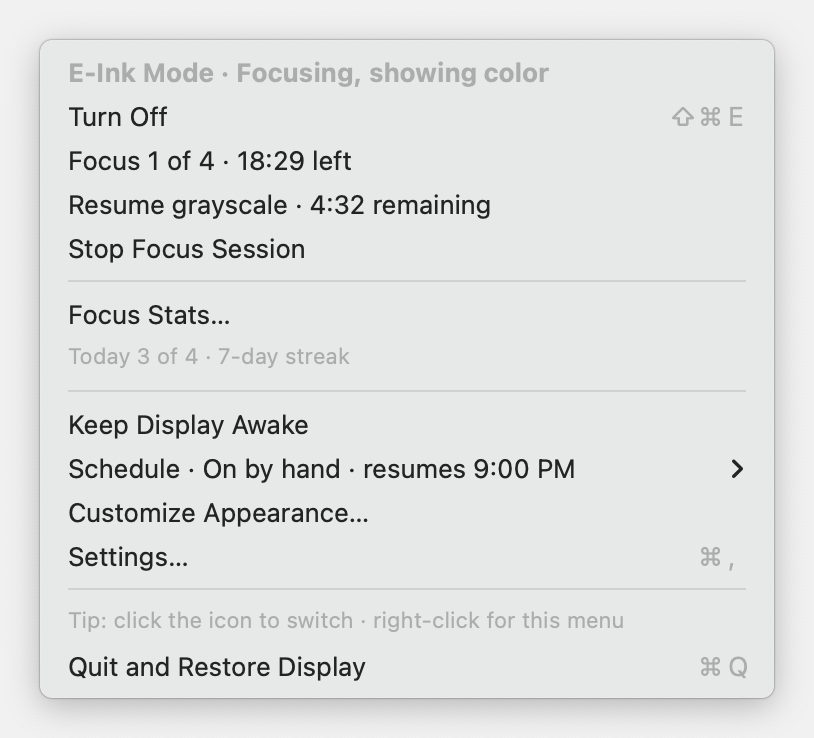
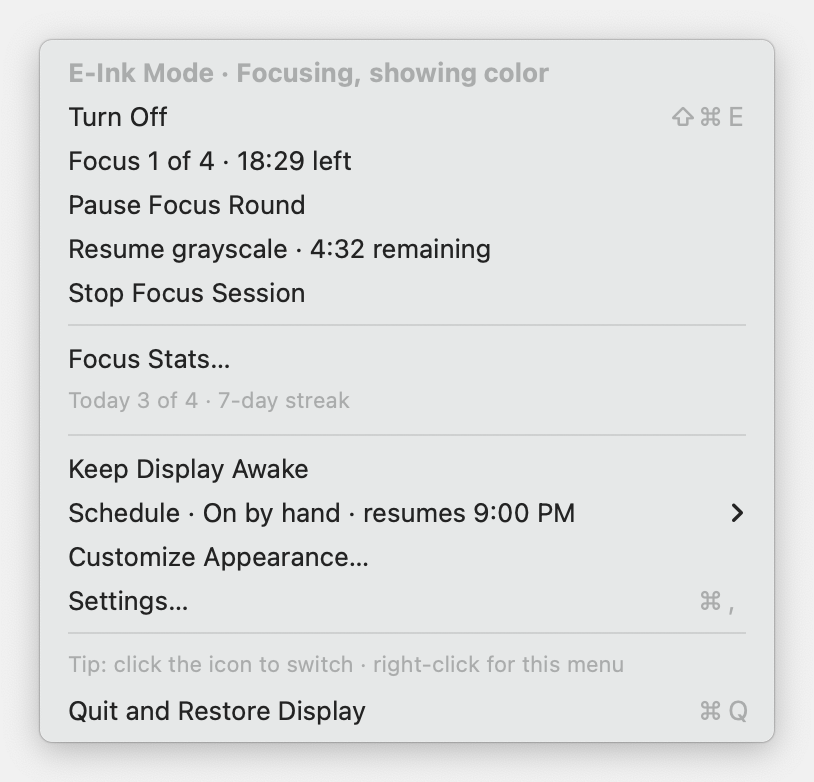
Refresh beta.4 release documentation and screenshots

diff --git a/docs/QA.md b/docs/QA.md
@@ -2,37 +2,43 @@
 
 ## Automated
 
-`./scripts/test.sh` runs core tests and process-level CLI tests against an isolated simulated system (`EINK_SIMULATED=1`). Coverage:
+`./scripts/test.sh` runs core tests and process-level CLI tests against an isolated simulated system (`EINK_SIMULATED=1`). Beta.4 passed 97 Swift tests, CLI integration tests, and release guard checks. Coverage:
 
 - **Restoration:** exact per-display capture and restore, pre-existing accessibility settings, idempotent activation, partial failures and rollback, retry after restart, corrupt journal and config, restore with a damaged config, and never clearing settings the app didn't set.
 - **Temporary color:** lifts grayscale only, leaves the saved profile untouched, cancels early, expires on tick, catches up after sleep, clears when turned off, honors expiry across a crash and resume, and edits during color.
 - **First-run preview:** the one-off profile is never saved and restores exactly.
 - **Defaults:** a fresh install changes grayscale only.
 - **Schedule:** boundaries, DST skipped and repeated hours, catch-up, manual overrides across restarts, quit pausing versus logout resuming, and plain-language status (*tonight*, *this morning*, *tomorrow*, manual override).
-- **Focus sessions:** grayscale focus and color breaks, the rest of the profile kept, round completion and ownership of the mode, catch-up across several phases after sleep, stopping early with credited minutes, turning off mid-round without stopping the timer, timer-only rounds with no display session, skipping breaks, color peeks mid-focus that keep the timer running (and are refused on breaks), a daily goal that defaults to 4 and can be changed, the schedule deferring to a round, settings edits not disrupting a round, surviving a restart, validation, and old config files without focus settings.
+- **Focus sessions:** optional grayscale focus and color breaks, the rest of the profile kept, round completion and ownership of the mode, catch-up across several phases after sleep, stopping early with credited minutes, turning off mid-round without stopping the timer, timer-only rounds with no display session, skipping breaks, color peeks that keep the timer running (refused during automatically controlled color breaks), a daily goal that defaults to 4 and can be changed, the schedule deferring to a round, settings edits not disrupting a round, surviving a restart, validation, and old config files without focus settings.
 - **Stats:** streaks from today or yesterday, gaps, best streak, week labels, retained totals, best day, saved daily goals, unknown legacy goals excluded from goal attainment, retention pruning, and each motivational message.
 - **Keep display awake:** the power assertion is registered with macOS while held and gone once released; repeating a hold or a release is a no-op.
 - **Updates:** semantic version and pre-release ordering, release feed selection (drafts, missing archives, invalid tags), and bundle swap with rollback when the replacement is missing.
 - **CLI:** settings, validation, concurrency (48 mode commands and concurrent edits), temporary color, the evening preset, `version`, and recovery.
 
-`./scripts/build.sh` builds a universal (arm64 + x86_64) local app, verifies its signature, and writes the zip, checksum, and `install.sh`. The local ad hoc build is not installable by the trusted installer. A distribution build requires Developer ID signing, notarization, stapling, and a pinned Team ID. With a signed distribution archive, test the installer offline without touching a running copy:
+`./scripts/build.sh` builds a universal (arm64 + x86_64) local app, verifies its signature, and writes the zip, checksum, and `install.sh`. An ordinary local ad hoc build is not installable by the trusted installer. Signed distribution requires Developer ID signing, notarization, stapling, and a pinned Team ID. The explicit `EINK_UNSIGNED_BETA=1` build instead generates an installer pinned to that beta's exact checksum and version. Test either distribution archive offline without touching a running copy:
 
 ```sh
-EINK_NO_LAUNCH=1 EINK_INSTALL_DIR=/tmp/apps LC_ALL=C bash dist/install.sh dist/E-Ink-Mode-*.zip
+eink_qa_dir="$(mktemp -d)"
+eink_version="$(tr -d '[:space:]' < VERSION)"
+EINK_NO_LAUNCH=1 EINK_INSTALL_DIR="$eink_qa_dir" LC_ALL=C bash dist/install.sh "dist/E-Ink-Mode-$eink_version.zip"
 ```
 
 `EINK_SIMULATED=1 EINK_HOME=/tmp/qa ".../EinkBar" --qa-snapshots /tmp/shots` renders the welcome, settings, and menu screenshots for visual review.
+
+For an unsigned beta, also confirm that an altered ZIP is rejected before installation. Beta.4's actual archive passed isolated installation, checksum, signature, version, and universal-architecture verification.
 
 ## On a real Mac (before each release)
 
 Grayscale must be checked **with your eyes**. API readback doesn't prove pixels changed. Record your macOS version and displays.
 
 ### Install and updates
+Beta.4 is unsigned and unnotarized: browser downloads may require **Open Anyway**, and updates install manually through the ZIP or generated installer. Check update availability and the unsigned-beta installer separately. Gatekeeper-clean opening and in-app installation in steps 1, 2, and 5 are acceptance checks for a future signed release.
+
 1. Fresh account or clean Mac: download the release ZIP in a browser, unzip it, and open the app. It opens without **Open Anyway** or quarantine removal. Accept **Move to Applications**. The app relaunches from Applications.
 2. On the same clean Mac, run the one-line installer. The signed, notarized app lands in Applications and opens. Try an archive signed by a different Team ID: the installer rejects it without replacing the installed app.
 3. Open the app again while it's running. No second icon appears; a hint points at the existing icon.
 4. Run an older build from another folder while the new one is running. The version-choice alert names both versions. **Use Version …** quits the other copy and restores the display.
-5. Publish a signed, notarized test release with a higher version. **Check Now** finds it, the menu shows *Update Available*, and **Install and Relaunch** restores, swaps, reopens, and turns back on if it was on. **Settings → Version** shows the new number. A wrong-publisher or unnotarized archive is refused before the running copy exits or the bundle is replaced.
+5. Publish a signed, notarized test release with a higher version. **Check Now** finds it, the menu shows *Update Available*, and **Install and Relaunch** restores, swaps, reopens, and turns back on if it was on. **Settings → General → Version** shows the new number. A wrong-publisher or unnotarized archive is refused before the running copy exits or the bundle is replaced.
 
 ### First run
 6. The welcome window explains what will change. The preview runs 10 s, shows grayscale only, and returns to color. Closing the window mid-preview also returns to color.
@@ -45,6 +51,7 @@ Grayscale must be checked **with your eyes**. API readback doesn't prove pixels 
 10a. Hold-to-peek: enable **Hold to show color** (default **⌃⌥⌘C**), press and hold the combination, and confirm color appears while held. Release it and confirm the current focus phase, timed peek, or schedule state is restored. Test a lost key-up, sleep/lock, app deactivation, and a conflicting shortcut; a missed release must expire within the short lease and never leave color stuck.
 10b. Select **Fn / 🌐 Globe** and repeat the hold/release check from another app. Check that enabling or selecting Fn while already holding it waits for release and a fresh press. Switch back to a combination and confirm Fn no longer peeks. The Mac's configured Globe action remains unchanged; test with that action set to **Do Nothing** if it interferes.
 11. The shortcut switches from other apps. Choose each preset, then **None**. A conflicting shortcut shows the *already taken* message.
+11d. General settings: Behavior, Keyboard shortcuts, and Updates and help fit together with tips collapsed. Expand **Tips and details**, check scrolling on a small screen, and confirm shortcut conflict and Globe warnings remain visible. With **Appearance → Grayscale** on, clicking applies grayscale; with it off, the mode toggles without changing color. The separate focus grayscale preference does not disable ordinary click-to-grayscale.
 
 ### Keep display awake
 11a. Set **System Settings → Lock Screen → Turn display off** to 1 minute. Choose **Keep Display Awake**: `pmset -g assertions` lists *PreventUserIdleDisplaySleep* named for E-Ink Mode, and the display stays on past a minute of no input. The menu shows a checkmark and the line *Your display stays on until you switch this off*.
@@ -57,15 +64,15 @@ Grayscale must be checked **with your eyes**. API readback doesn't prove pixels 
 14. Sleep across a boundary and wake: it catches up. Log out and back in during the evening period (with **Open at login**): it's on again.
 
 ### Focus sessions
-15a. Settings → Focus to 5/1/2 and enable **Use grayscale during focus**. Start Focus: the menu bar shows a timer and countdown and the display turns grayscale. At 5:00 a sound plays, color returns, and the menu shows *Break · … then focus 2 of 2*. After the break, grayscale returns. After session 2, the display is restored and the *Round complete* hint shows today's count.
+15a. Settings → Focus to 5/1/2 and enable **Use grayscale during focus**. Start Focus: the menu bar shows a shaded icon and countdown and the display turns grayscale. At 5:00 a sound plays, color returns, and the menu shows *Break · … then focus 2 of 2*. After the break, grayscale returns. After session 2, the display is restored and the *Round complete* hint shows today's count.
 15j. Leave **Use grayscale during focus** off (the default). Start Focus with E-Ink Mode off: the countdown runs with an unshaded icon and no display change. Test pause/resume, skipping a break, and completion history. Start another round, turn E-Ink Mode on and off using the icon/shortcut, and change grayscale in Appearance: the same timer keeps running. During an opted-in grayscale round, turning off or changing grayscale releases automatic display switching through later phase boundaries.
-15b. **Skip Break** starts the next session immediately. **Stop Focus Session** mid-focus restores the display, and Focus Stats credits the minutes.
+15b. **Skip Break** starts the next session immediately. **Stop Focus Session** mid-focus restores a display owned by an opted-in grayscale round; a timer-only round leaves the display alone. Focus Stats credits active minutes in both cases.
 15c. Start a round while E-Ink Mode is already on: afterwards it stays on in grayscale.
 15d. Sleep mid-focus past the break and wake: the round catches up to the right phase.
-15f. Mid-focus **Color for 5 Minutes**: color appears, the focus countdown keeps running, and grayscale returns after the peek or on **Resume grayscale**. The item is hidden during breaks.
+15f. During an opted-in grayscale round, **Color for 5 Minutes** shows color while the focus countdown keeps running; grayscale returns after the peek or on **Resume grayscale**. The item is hidden during automatically controlled color breaks. A timer-only round follows the ordinary mode's temporary-color controls, including during breaks.
 15i. Pause mid-focus: the menu and Focus Stats show **Paused**, the remaining time stays fixed, and grayscale remains on. Resume after several minutes: the same round continues and the paused gap earns no minutes. Pause during a break: color stays on and the break clock freezes. Start a color peek before pausing focus and let it expire: grayscale returns, with the round still paused. Cross a schedule boundary while paused: it waits for the round to end. Stop while paused: only active focus minutes count. Quit while paused: the original display returns. Force-quit and relaunch: choose **Continue Session** and check that the round is still paused until you explicitly resume it.
 15g. Change the daily goal with the Focus Stats stepper: today's progress, message, and chart marker update. Earlier days keep their saved goal markers and goal-met results; legacy days with unknown goals show no marker and are excluded from the goal-met count.
-15h. Icon parity: the dot is ○ when off, ● when on or focusing, and ◐ during color peeks and focus breaks. **Wildcat mode** follows the same rule: outlined, filled, half-shaded. Check both sets in light and dark menu bars; the focus countdown shows beside either. The warning icon replaces both when something needs attention.
+15h. Icon parity: the dot is ○ in color (including timer-only focus with mode off), ● while grayscale is applied, and ◐ during color peeks and automatically controlled color breaks. **Wildcat mode** follows the same rule: outlined, filled, half-shaded. Check both sets in light and dark menu bars; the focus countdown shows beside either. The warning icon replaces both when something needs attention.
 15e. Focus Stats updates after each completed session; the 7-day chart and streak look right; hovering a bar shows its values.
 
 ### Restoration

diff --git a/README.md b/README.md
@@ -6,9 +6,11 @@
 
 For macOS 13 Ventura or newer (Apple silicon and Intel) or Windows 10/11 x64 · **Beta**
 
-**New: Windows beta, 2026-09-24** — see [Windows (beta)](#windows-beta) below.
+**Latest Mac release: [0.10.0-beta.4](https://github.com/marcveihl/eink-mode/releases/tag/v0.10.0-beta.4)** — focus without grayscale, independent Pomodoro timers, and compact General settings.
 
-[Download](https://github.com/marcveihl/eink-mode/releases/latest) · [User guide](docs/USER-GUIDE.md) · [Changelog](CHANGELOG.md) · [Roadmap](docs/ROADMAP.md)
+**Windows beta:** see [Windows (beta)](#windows-beta) below for its separate release and installer.
+
+[Download for Mac](https://github.com/marcveihl/eink-mode/releases/download/v0.10.0-beta.4/E-Ink-Mode-0.10.0-beta.4.zip) · [Release notes](https://github.com/marcveihl/eink-mode/releases/tag/v0.10.0-beta.4) · [User guide](docs/USER-GUIDE.md) · [Changelog](CHANGELOG.md) · [Roadmap](docs/ROADMAP.md)
 
 <p align="center"><img src="docs/img/menu-on.png" width="375" alt="E-Ink Mode menu with mode toggle, temporary color, focus sessions, keep display awake, and schedule"></p>
 
@@ -26,22 +28,22 @@ Need to check a photo, a chart, or a color-coded calendar? **Color for 5 Minutes
 
 ### Focus sessions for studying
 
-**Start Focus** runs a round of Pomodoro-style sessions: 25 minutes of focus, then a 5-minute break, four times over. By default, the timers leave your display alone. Enable **Settings → Focus → Use grayscale during focus** for automatic grayscale focus and color breaks. A soft sound marks each phase change, and a countdown sits next to the menu bar icon. You can pause and resume, skip a break, or stop early (minutes you already focused still count). Changing grayscale or turning E-Ink Mode off keeps the timer running and releases automatic display switching for that round.
+**Start Focus** runs a Pomodoro-style round: four 25-minute focus sessions separated by 5-minute breaks. By default, the timers leave your display alone. Enable **Settings → Focus → Use grayscale during focus** for automatic grayscale focus and color breaks. A soft sound marks each phase change, and a countdown sits next to the menu bar icon. You can pause and resume, skip a break, or stop early (minutes you already focused still count). Changing grayscale or turning E-Ink Mode off keeps the timer running and releases automatic display switching for that round.
 
 <p align="center">
-  <img src="docs/img/menu-focus.png" width="330" alt="Menu while focusing: Focus 1 of 4 · 18:30 left, Color for 5 Minutes, Stop Focus Session">
-  <img src="docs/img/menu-break.png" width="330" alt="Menu on a break: Break · 4:30 left, then focus 3 of 4, Skip Break, Stop Focus Session">
+  <img src="docs/img/menu-focus-timer.png" width="330" alt="Timer-only focus with E-Ink Mode off: Focus 1 of 4 · 18:30 left, Pause Focus Round, Stop Focus Session">
+  <img src="docs/img/menu-break.png" width="330" alt="Break with optional grayscale enabled: 4:30 left, then focus 3 of 4, Skip Break, Stop Focus Session">
 </p>
 
 ### A daily tracker that keeps you going
 
 **Focus Stats** shows today's completed timer sessions against a daily goal (4 by default, and you can change it). It also shows your current and best streak, this week, retained totals, and your best day, with a 7-day chart and a short nudge suited to the moment, like *One more session to reach today's goal*. Up to 800 recorded days stay on your Mac. Each day's goal is preserved, so changing today's target doesn't rewrite past achievements. Older records with unknown goals are excluded from historical goal counts. These statistics describe timer activity, not measured attention.
 
-<p align="center"><img src="docs/img/focus-stats.png" width="480" alt="Focus Stats: today 3 of 4 sessions, 7-day streak, week and all-time totals, best day, and a 7-day bar chart with the daily goal as a dashed line"></p>
+<p align="center"><img src="docs/img/focus-stats.png" width="480" alt="Focus Stats: today 3 of 4 sessions, 7-day streak, week and retained totals, best day, and a 7-day bar chart with saved daily goals as diamond markers"></p>
 
 ### An icon you can read at a glance
 
-The menu bar icon is **unshaded** while your screen is in color, **shaded** while it's grayscale, and **half-shaded** during temporary color (a color peek or a focus break). **Wildcat mode** swaps the dot for a wildcat head that follows the same rule. Go 'Cats!
+The menu bar icon is **unshaded** while your screen is in color, **shaded** while it's grayscale, and **half-shaded** during temporary color (a color peek or a break in a grayscale focus round). **Wildcat mode** swaps the dot for a wildcat head that follows the same rule. Go 'Cats!
 
 <p align="center"><img src="docs/img/menu-bar-icons.png" width="510" alt="Dot and Wildcat mode icons: unshaded for color (off), shaded for grayscale (on), half-shaded for temporary color"></p>
 
@@ -50,17 +52,18 @@ The menu bar icon is **unshaded** while your screen is in color, **shaded** whil
 - **Keep Display Awake:** a switch in the menu that stops the display sleeping and the screen saver starting while you read. It lasts until you switch it off, and quitting always releases it.
 - **Evening schedule:** turn on at 9 PM and off at 7 AM (or your own times). The menu tells you what's next, such as *Turns on tonight at 9:00 PM*, and switching by hand always wins.
 - **Your display always comes back:** your original settings are saved before anything changes. Quitting, logging out, updating, and even a crash all lead back to exactly how your Mac looked before.
-- **Updates built in:** the app checks for new versions and installs them in place.
+- **Compact General settings:** grouped controls and expandable tips keep the window shorter; extra details scroll within the pane.
+- **Update checks built in:** the app checks for new versions. Install this unsigned beta using the download or Terminal installer; in-app installation requires a signed release with a configured publisher identity.
 
 See the [user guide](docs/USER-GUIDE.md) for every control, setting, and guarantee in detail.
 
 ## Install
 
-Download the ZIP from the [latest release](https://github.com/marcveihl/eink-mode/releases/latest), unzip it, and move **E-Ink Mode.app** to **Applications**.
+Download [E-Ink-Mode-0.10.0-beta.4.zip](https://github.com/marcveihl/eink-mode/releases/download/v0.10.0-beta.4/E-Ink-Mode-0.10.0-beta.4.zip), unzip it, and move **E-Ink Mode.app** to **Applications**. The ZIP supports both Apple silicon and Intel Macs. Its [SHA-256 checksum](https://github.com/marcveihl/eink-mode/releases/download/v0.10.0-beta.4/E-Ink-Mode-0.10.0-beta.4.zip.sha256) is available alongside the download.
 
 Beta.4 is not Developer ID signed or notarized. If macOS blocks a browser download, attempt to open the app, then use **System Settings → Privacy & Security → Open Anyway**. Signing is deferred until a later release.
 
-Prefer Terminal? Review the [installer](scripts/install.sh), then run:
+Prefer Terminal? Review the [published installer](https://github.com/marcveihl/eink-mode/releases/download/v0.10.0-beta.4/install.sh), then run:
 
 ```sh
 curl -fsSL https://github.com/marcveihl/eink-mode/releases/latest/download/install.sh | bash
@@ -72,7 +75,8 @@ This beta's installer verifies the exact archive checksum and signature integrit
 
 Click the **○** in the menu bar (it becomes **●** while your screen is grayscale) to turn the mode on, start a focus session, or change settings.
 
-- Enable **Click the icon to switch** for one-click toggling. Right-click, Control-click, or hold to open the menu.
+- Enable **Settings → General → Behavior → Click icon to toggle E-Ink Mode** for one-click toggling. Right-click, Control-click, or hold for about a second to open the menu.
+- Keep **Appearance → Grayscale** on for normal grayscale switching. **Focus → Use grayscale during focus** is a separate setting and defaults off.
 - Choose **Color for 5 Minutes** when you need color; **Resume grayscale** ends it early.
 - Enable **Open at login** if you want the schedule to run each day.
 - Choose **Quit and Restore Display** before uninstalling.

diff --git a/docs/ROADMAP.md b/docs/ROADMAP.md
@@ -1,14 +1,16 @@
 # Proposed roadmap
 
-These are recommendations, not committed release dates. Reviewed against `0.10.0-beta.1` on GitHub.
+These are recommendations, not committed release dates. Reviewed against [0.10.0-beta.4](https://github.com/marcveihl/eink-mode/releases/tag/v0.10.0-beta.4).
 
 ## What is already working toward the product goal
 
 - **Onboarding, a timed preview, and grayscale-only defaults** make the first activation less surprising.
 - **Click-to-flip, temporary color, and schedule status** make everyday switching easier.
-- **Installation handling, version visibility, and in-app updates** address the earlier confusion between app copies.
-- **Focus sessions with color breaks** give users a repeatable study workflow. Keep ordinary grayscale use equally accessible.
-- **Local goals and stats** provide feedback without an account. Their labels should distinguish elapsed timer time from actual attention.
+- **Installation handling, version visibility, and update checks** address the earlier confusion between app copies. Unsigned betas install manually; publisher verification is ready for signed releases.
+- **Optional grayscale focus, pause/resume, and independent timers** support study rounds without requiring a display change. Manual display changes leave the timer running.
+- **Local goals and stats** preserve historical goals and label retained totals. They describe elapsed timer activity, not measured attention.
+- **Compact General settings, held color shortcuts, and Keep Display Awake** improve everyday controls.
+- **A separate Windows beta** provides grayscale, temporary color, schedules, and display restoration; focus and updates remain Mac-only.
 - **Wildcat icons** add personality. Further cosmetic variants should wait behind reliability and usability work.
 
 This is a review of the documented features and implementation, not a new round of device or usability testing.
@@ -17,28 +19,28 @@ This is a review of the documented features and implementation, not a new round 
 
 | Priority | Improvement | Acceptance criteria |
 |---|---|---|
-| **P0** | Trusted installation and updates | Publish Developer ID-signed, notarized downloads. Verify the expected publisher when updating, beyond bundle ID, version, and signature validity. Confirm installation and upgrade on a clean Mac without removing quarantine. |
-| **P0** | Focus pause and sleep behavior | Add Pause/Resume without losing the round. Define what happens on sleep and lock, and avoid silently crediting unattended sessions as work. Explain any catch-up choice on return. Test interactions with temporary color and schedules. |
-| **P0** | Honest, controllable history | Explain what counts as a session and streak. Add export and reset with confirmation. Preserve lifetime totals separately or relabel “all time” to reflect retained history. Changing today's goal should not silently redefine past achievements. |
-| **P1** | Choose a simple or study-oriented menu | Let users hide focus stats, streak nudges, and countdowns independently. Keep the mode toggle and temporary color prominent in both layouts. |
+| **P0** | Trusted installation and updates | Configure Developer ID credentials and publish notarized downloads using the existing publisher checks. Confirm installation and upgrade on a clean Mac without removing quarantine. |
+| **P0** | Automatic focus pause and sleep behavior | Define what happens on sleep and lock beyond the existing manual Pause/Resume controls. Explain catch-up on return and test interactions with temporary color and schedules. |
+| **P0** | Controllable history | Add export and reset with confirmation. Decide whether to preserve lifetime totals beyond the 800-day retention limit. Keep saved daily goals and the existing retained-total labels. |
+| **P1** | Choose a simple or study-oriented menu | Let users hide focus stats and streak nudges independently, alongside the existing countdown preference. Keep the mode toggle and temporary color prominent. |
 | **P1** | More flexible temporary color | Offer a few durations and an Extend action. Show when grayscale returns, including when a focus break or schedule change takes precedence. |
-| **P1** | Better focus-round controls | Add a quick choice of one session or a saved round, plus an optional longer break between rounds. Preserve existing timing when preferences change mid-round. |
+| **P1** | Better focus-round controls | Add a quick menu choice of one session or a saved round, plus an optional longer break between rounds. Existing rounds already retain their timing when preferences change. |
 | **P2** | Color exceptions for chosen apps | Restore color while a selected app is foregrounded. Explain that this is a whole-display change, and define precedence with manual color, focus breaks, and scheduling. |
 | **P2** | Custom shortcuts and automation | Add a shortcut recorder with conflict feedback and accessible actions for temporary color and focus controls. Keep menu alternatives available. |
 
 ## Why these come first
 
-The updater currently checks the bundle identifier, version, and code-signature validity, but does not pin an expected signing identity (`Sources/EinkBar/Updater.swift`). The installer removes quarantine (`scripts/install.sh`). A straightforward, trusted download remains a release priority even though update convenience is now implemented.
+The updater and signed installer already verify the expected Developer ID publisher, bundle identity, signature, and macOS acceptance. Neither removes quarantine. Beta.4 is ad hoc signed and unnotarized; its installer instead pins the exact archive checksum and version. Publishing a Gatekeeper-clean release still requires signing credentials and clean-Mac validation.
 
 Focus advances through elapsed phase boundaries and credits completed phases after sleep (`Sources/EinkCore/Controller.swift`). That is valid timer behavior, but it should be an explicit product decision before presenting the totals as study time.
 
-History currently retains up to 800 recorded days, and “days goal met” uses the current goal for past records (`Sources/EinkCore/Focus.swift`). Clarify those semantics before adding more motivational statistics.
+History retains up to 800 recorded days and saves each day's goal. Legacy days with unknown goals are excluded from historical goal attainment. Export, reset, and optional lifetime totals remain useful additions before more motivational statistics.
 
 ## Suggested sequence
 
-1. **Trust and accuracy:** signing, update verification, focus pause/sleep semantics, and history labels/controls.
+1. **Trust and accuracy:** signed distribution, automatic sleep/lock semantics, and history controls.
 2. **Daily usability:** optional study UI, flexible color breaks, and quicker focus starts.
 3. **Validate before expanding:** ask 10–15 outside testers to use the app for two weeks. Observe installation, starting/stopping a round, interrupting it, and restoring the display. Use interviews or voluntary feedback; no analytics service is required.
 4. **Add integrations when requested repeatedly:** app exceptions and custom shortcuts, then reassess broader scope.
 
-Defer Windows, cloud accounts, leaderboards, app blocking, and more themes until users return regularly and the core experience is dependable.
+Defer further Windows feature parity, cloud accounts, leaderboards, app blocking, and more themes until users return regularly and the core experience is dependable.

diff --git a/docs/BETA-TESTING.md b/docs/BETA-TESTING.md
@@ -1,6 +1,6 @@
 # E-Ink Mode beta: tester guide
 
-Thanks for trying E-Ink Mode! This takes about **20 minutes**. Please don't read the README first. The point is to see whether the app explains itself.
+Thanks for trying [E-Ink Mode 0.10.0-beta.4](https://github.com/marcveihl/eink-mode/releases/tag/v0.10.0-beta.4)! Allow about **30 minutes**. Please don't read the README first. The point is to see whether the app explains itself.
 
 **You need:** a Mac running macOS 13 Ventura or newer. An external monitor is a bonus.
 
@@ -14,6 +14,8 @@ Open Terminal, paste, and press Return:
 ```sh
 curl -fsSL https://github.com/marcveihl/eink-mode/releases/latest/download/install.sh | bash
 ```
+
+This beta is not Developer ID signed or notarized. If macOS blocks it, attempt to open it, then choose **System Settings → Privacy & Security → Open Anyway**. Updates use the installer or ZIP download while signing is deferred.
 
 *Note for yourself:* Was anything confusing? Did you find the ○ icon without help?
 
@@ -29,19 +31,21 @@ Follow the welcome window.
 - Turn E-Ink Mode **on and off** from the menu, then with **⌘⇧E**.
 - Choose **Color for 5 Minutes**. Watch the countdown in the menu, then choose **Resume grayscale** early. Try it again, and let it expire on its own.
 - Choose **Keep Display Awake** and leave your Mac alone for longer than it usually takes to sleep the screen. Did it stay on? Switch it off again.
-- In **Settings → General**, turn on **Click the icon to switch**. Click the icon a few times, then right-click it.
+- In **Settings → General → Behavior**, turn on **Click icon to toggle E-Ink Mode**. Click the icon a few times, then right-click it or hold for about a second. Leave **Appearance → Grayscale** on for normal grayscale switching.
+- Does General fit comfortably? Expand **Tips and details** and try scrolling. Optionally enable **Hold to show color** and check that releasing the shortcut brings grayscale back.
 
 ## 4. Schedule (≈2 min)
 
 - Open **Schedule** in the menu and choose **Evening**. Does the menu's *Schedule · …* line tell you what will happen next?
 - Turn E-Ink Mode on or off by hand. Is it clear what the schedule will do now?
 
-## 5. Focus sessions (≈4 min)
+## 5. Focus sessions (≈12 min)
 
 - In **Settings → Focus**, set focus to **5 minutes**, breaks to **1 minute**, and **2 sessions** per round, so you can see a whole round quickly.
-- Choose **Start Focus** in the menu. Watch the countdown in the menu bar. When the break starts, does color come back? When the break ends, does grayscale return?
+- Leave **Use grayscale during focus** off (the default), turn E-Ink Mode off, then choose **Start Focus**. Does the countdown start without changing your display? Try Pause/Resume, then toggle E-Ink Mode on and off. Does the same timer keep running? Stop this round.
+- Enable **Use grayscale during focus** and start a new round. When the break starts, does color come back? When the break ends, does grayscale return? Optionally try **Skip Break**.
 - Open **Focus Stats…** after the round. Does it motivate you? What would you want to see there?
-- Put your settings back (25 / 5 / 4) for real studying.
+- Put your settings back (25 / 5 / 4) for real studying, and choose whether you want grayscale during future rounds.
 
 ## 6. Trust (≈3 min)
 
@@ -56,7 +60,7 @@ Please answer these in a message (a sentence each is plenty):
 2. Before turning it on, did you understand **what would change**?
 3. Did **Color for 5 minutes** do what you expected, and did grayscale come back?
 4. When you turned it off or quit, was your desktop **exactly** as before? Note anything that wasn't: brightness, Dock, colors.
-5. Would you use focus sessions for school? Were the stats motivating, and what's missing?
+5. Did timer-only focus and optional grayscale behave as expected? Would you use focus sessions for school? Were the stats motivating, and what's missing?
 6. What would make you keep using it? What was annoying?
 7. Your macOS version (Apple menu → About This Mac) and whether you used an external monitor.
 

diff --git a/docs/IMPLEMENTATION.md b/docs/IMPLEMENTATION.md
@@ -1,6 +1,6 @@
 # E-Ink Mode implementation scope
 
-Approved working scope: macOS MVP plus inline settings, independent grayscale, and nightly scheduling. Preserve prototype0. Windows, custom rendering/palettes/dithering, IDE themes, and app blocking are deferred. Warmth remains owned by f.lux. Notification suppression is unavailable unless prior state can be reliably captured and restored.
+Current Mac release: **0.10.0-beta.4**, with window-based settings, independent grayscale, nightly scheduling, focus rounds, and local stats. Windows has a separate earlier-stage beta; see [its implementation](../windows/README.md). Preserve prototype0. Custom rendering/palettes/dithering, IDE themes, and app blocking remain deferred. Warmth remains owned by f.lux. Notification suppression is unavailable unless prior state can be reliably captured and restored.
 
 Deliver menu bar settings, primary toggle, Command-Shift-E, grayscale, optional brightness, Dock autohide, reduced motion/transparency where supported, login startup, persisted configuration, crash recovery and CLI parity. Schedule defaults to disabled, 21:00–07:00 daily local time, catches up on wake/start, and respects manual mode overrides until the next boundary. Launch alone never activates an unscheduled profile.
 
@@ -11,3 +11,11 @@ New app and CLI share a Swift core and atomic JSON state. Read legacy config as 
 Beta 0.9 (see CHANGELOG): defaults are grayscale-only; brightness and Dock are opt-in via first-run setup. Temporary color is runtime state (`colorUntil`) that never edits the saved profile. Status menu follows the agreed hierarchy; settings moved to a window. App exceptions and a free-form shortcut recorder are deferred until beta feedback.
 
 Beta 0.10.0-beta.3: **Keep Display Awake** is a menu-bar-app power assertion (`kIOPMAssertPreventUserIdleDisplaySleep`, `Sources/EinkMac/DisplayAwake.swift`), not a captured system setting, so it never enters the restoration journal — macOS releases it when the process ends. The choice is remembered in `UserDefaults` (`keepAwake`) and re-held at launch. The CLI has no equivalent: a short-lived command cannot hold an assertion.
+
+Focus rounds support persisted pause/resume and held-color shortcuts (including Fn/Globe). History retains up to 800 recorded days, saves daily goals, excludes unknown legacy goals from historical attainment, and labels totals as retained timer activity. Unpaused rounds still catch up across sleep; automatic sleep/lock pausing is deferred.
+
+Beta 0.10.0-beta.4: **Use grayscale during focus** defaults off, including when older preferences lack the field. Timer-only rounds never acquire a display session and retain pause/resume, break skipping, recovery, and history. A round captures its grayscale choice at start; legacy persisted rounds without that choice preserve their prior grayscale behavior. Turning the mode off or editing Appearance grayscale leaves the timer running and releases automatic display control for the rest of the round. Explicit stop and app shutdown end the round. Scheduling waits until the round ends, including timer-only rounds.
+
+General settings groups behavior, keyboard shortcuts, and updates/help. Tooltips and collapsed tips reduce the initial height, and a screen-aware height limit allows longer content to scroll. Normal Appearance grayscale remains independent of the focus preference.
+
+Distribution guards verify the expected Developer ID publisher and macOS acceptance for signed installs and updates. Beta.4 uses the explicit unsigned-beta exception: an ad hoc signed universal archive, exact checksum/version pinning in the generated installer, and preserved quarantine. In-app installation remains unavailable until a publisher identity is configured. See [releasing](RELEASING.md) and [QA](QA.md).

diff --git a/docs/RELEASING.md b/docs/RELEASING.md
@@ -1,6 +1,8 @@
 # Releasing
 
-1. Bump [`VERSION`](../VERSION) (for example `0.9.0-beta.2`) and add a [CHANGELOG](../CHANGELOG.md) entry.
+The latest Mac release is [0.10.0-beta.4](https://github.com/marcveihl/eink-mode/releases/tag/v0.10.0-beta.4), published through the explicit unsigned-beta exception below.
+
+1. Bump [`VERSION`](../VERSION) (for example `0.10.0-beta.5`) and add a [CHANGELOG](../CHANGELOG.md) entry.
 2. `./scripts/test.sh`, then run the real-Mac checks in [QA.md](QA.md).
 3. `./scripts/release.sh`. It builds, then creates a GitHub release `v<VERSION>` with the zip, checksum, and `install.sh`, using the changelog section as notes.
 
@@ -13,7 +15,7 @@
 
 Windows has its own, earlier-stage beta track, kept deliberately invisible to the Mac app's own update check: `Updates.swift` picks a release's `archive` by the first asset ending in `.zip` and parses its version from `tag_name` via `AppVersion`, so a differently-shaped tag with a non-`.zip` asset simply never matches.
 
-1. Bump the version in [`windows/eink.iss`](../windows/installer/eink.iss) (`MyAppVersion`) and add a [`windows/CHANGELOG.md`](../windows/CHANGELOG.md) entry.
+1. Bump the version in [`windows/installer/eink.iss`](../windows/installer/eink.iss) (`MyAppVersion`) and add a [`windows/CHANGELOG.md`](../windows/CHANGELOG.md) entry.
 2. Build with `windows/build.ps1` (produces `windows/dist/EInkMode-Setup-<version>.exe`).
 3. Tag `windows-v<version>` (for example `windows-v0.1.0-beta.1`) and publish the release with `gh release create windows-v<version> --latest=false --title ... --notes ...`. **Always `--latest=false`** — `releases/latest` must keep pointing at the Mac release.
 4. The only asset is the Setup `.exe` — never a `.zip`. That, plus the `windows-v...` tag shape, is what keeps this release invisible to the Mac in-app updater.
@@ -25,6 +27,8 @@ Local `./scripts/build.sh` builds may use an ad hoc signature for development. `
 ### Explicit unsigned beta exception
 
 For the signing-deferred beta track, run `EINK_UNSIGNED_BETA=1 ./scripts/release.sh`. This is allowed only for a version containing `-beta.` and cannot be combined with signing credentials. The app is ad hoc signed and unnotarized. Its generated installer pins the exact ZIP SHA-256 and beta version, verifies signature integrity, and preserves quarantine; it does not claim an Apple-verified publisher. Browser downloads may require **Open Anyway** in Privacy & Security. Install future releases manually until Developer ID signing is configured. Without this explicit option, the signed-release requirements above still apply.
+
+Before publishing an unsigned beta, run the automated checks, visual/behavior checks, and isolated archive installation in [QA.md](QA.md). Verify the generated installer accepts the actual release ZIP and rejects an altered archive. Signed-release clean-Mac acceptance remains a separate gate when credentials are available.
 
 For Gatekeeper-clean builds, you need an Apple Developer Program membership:
 

diff --git a/CHANGELOG.md b/CHANGELOG.md
@@ -7,6 +7,7 @@
 - Timer-only rounds retain pause/resume, break skipping, restart recovery, completion history, and countdowns. The menu bar icon follows the actual grayscale state.
 - CLI: `eink set focus-grayscale on|off` configures future rounds.
 - **Compact General settings:** group everyday preferences, keep the hold-color shortcut beside its toggle, and tuck longer explanations into tooltips and expandable tips. The window stays within the screen height and scrolls when more space is needed.
+- Verified with 97 Swift tests, CLI integration, release guard checks, and isolated installation of the universal release archive.
 
 ## 0.10.0-beta.3 (Focus controls and held color)
 
